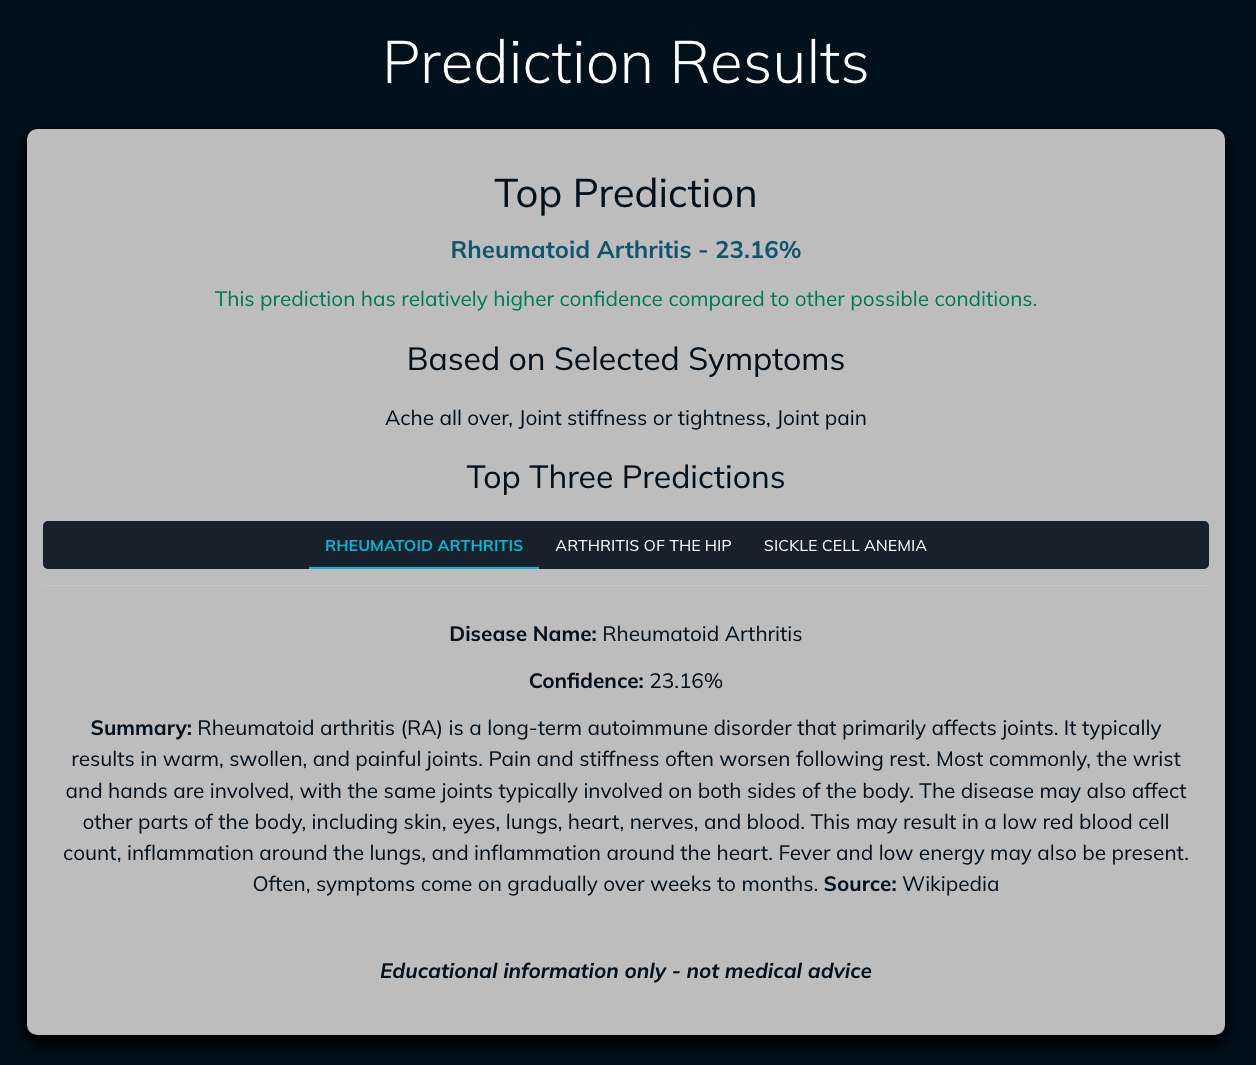
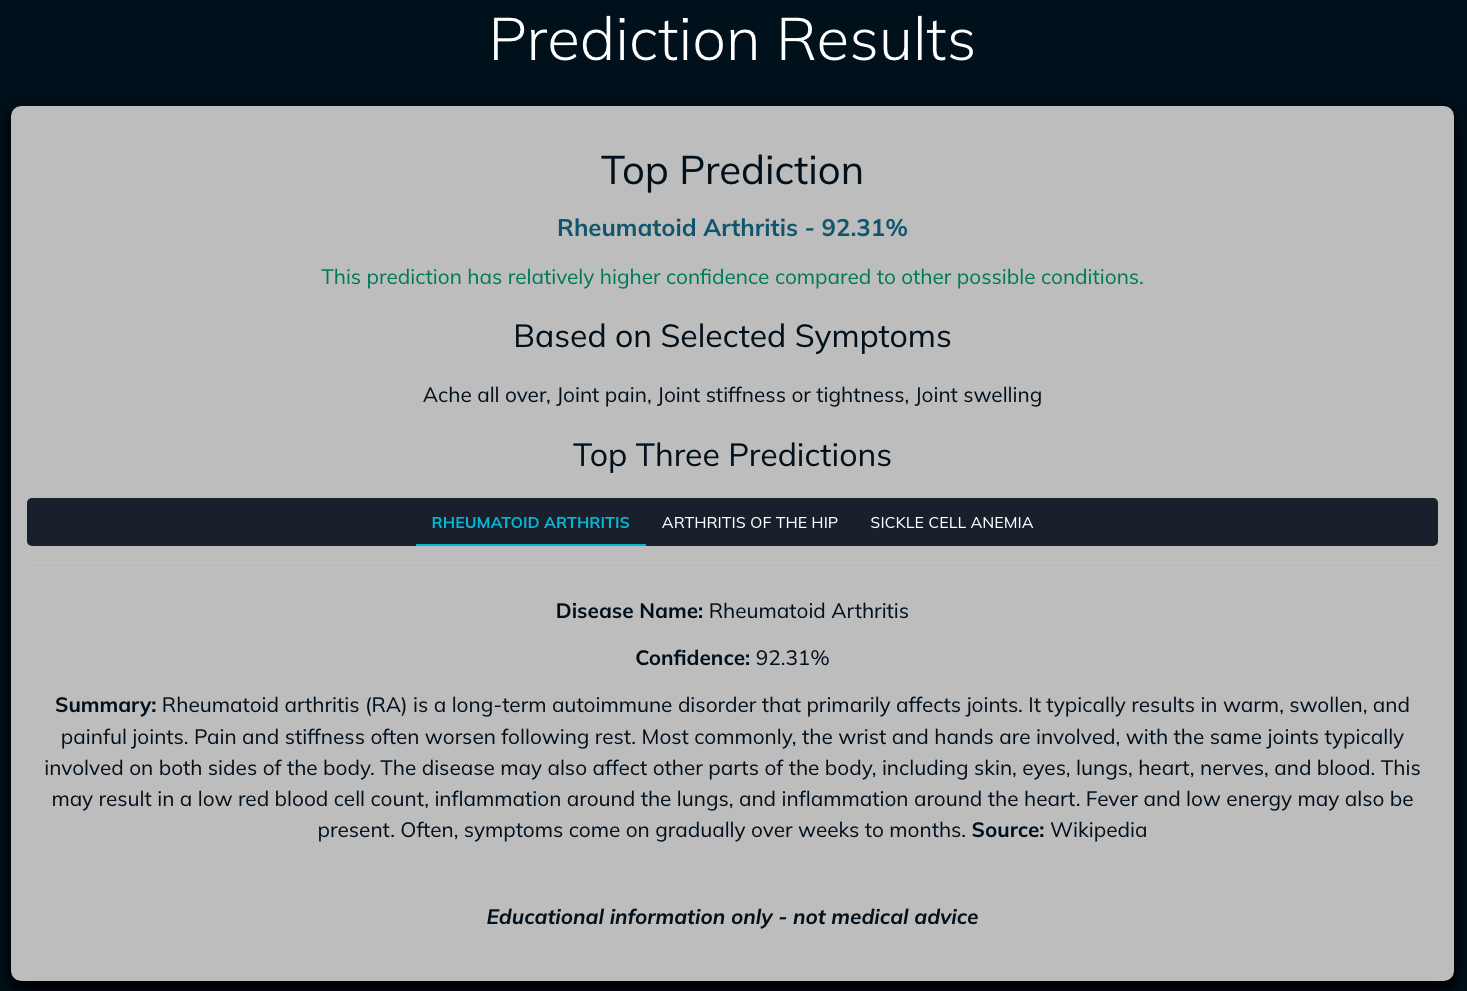
moving around visualizations

Changed region(s): [[0.0, 0.0, 0.9936, 0.999], [0.3416, 0.1514, 0.6521, 0.2422], [0.3105, 0.9082, 0.6831, 0.9384]]

diff --git a/src/pages/VisualizationsPage.tsx b/src/pages/VisualizationsPage.tsx
@@ -73,14 +73,14 @@ function VisualizationsPage() {
             <div className="visualization-grid">
               <FrequencyChart data={visualizationData.top_symptoms} />
 
+              <CountChart data={visualizationData.symptom_count_distribution} />
+
               <CorrelationChart
                 heatmap_symptoms={visualizationData.heatmap_symptoms}
                 symptom_correlation_heatmap={
                   visualizationData.symptom_correlation_heatmap
                 }
               />
-
-              <CountChart data={visualizationData.symptom_count_distribution} />
 
               <CooccurenceChart
                 data={visualizationData.disease_symptom_matrix}

diff --git a/src/components/visualizer/CountChart.tsx b/src/components/visualizer/CountChart.tsx
@@ -16,7 +16,7 @@ function CountChart({ data }: CountChartProps) {
     <section className="visualization-card visualization-card-wide">
       <Typography variant="h4">Symptom Count per Case</Typography>
       <Typography variant="body1" className="visualization-caption">
-        <strong>Figure 3:</strong> The number of symptoms present in each case.
+        <strong>Figure 2:</strong> The number of symptoms present in each case.
         This gives context for how simple or complex a typical patient record
         is.
       </Typography>

diff --git a/src/components/visualizer/CorrelationChart.tsx b/src/components/visualizer/CorrelationChart.tsx
@@ -23,7 +23,7 @@ function CorrelationChart({
     <section className="visualization-card visualization-card-wide">
       <Typography variant="h4">Symptom Correlation Heatmap</Typography>
       <Typography variant="body1" className="visualization-caption">
-        <strong>Figure 2:</strong> Correlation between the most frequent
+        <strong>Figure 3:</strong> Correlation between the most frequent
         symptoms in the dataset. Darker cells indicate symptoms that tend to
         appear together more often.
       </Typography>

diff --git a/src/components/visualizer/FrequencyChart.tsx b/src/components/visualizer/FrequencyChart.tsx
@@ -55,7 +55,7 @@ function FrequencyChart({ data }: FrequencyChartProps) {
 
       <div className="chart-summary">
         <Typography variant="body1" className="visualization-caption">
-          Sharp abdominal pain, vomiting, and cough appear most frequently
+          Sharp abdominal pain, vomiting, and headache appear most frequently
           across cases, suggesting that these symptoms are highly represented in
           the dataset. This may influence the model to favor diseases associated
           with these symptoms.
